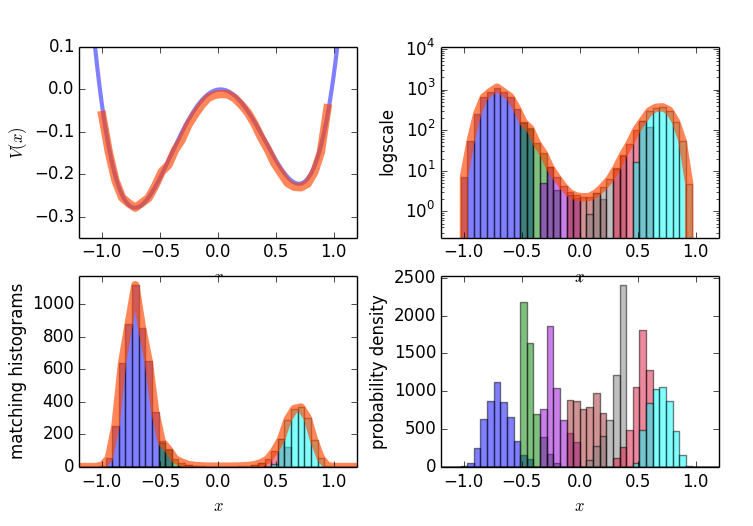
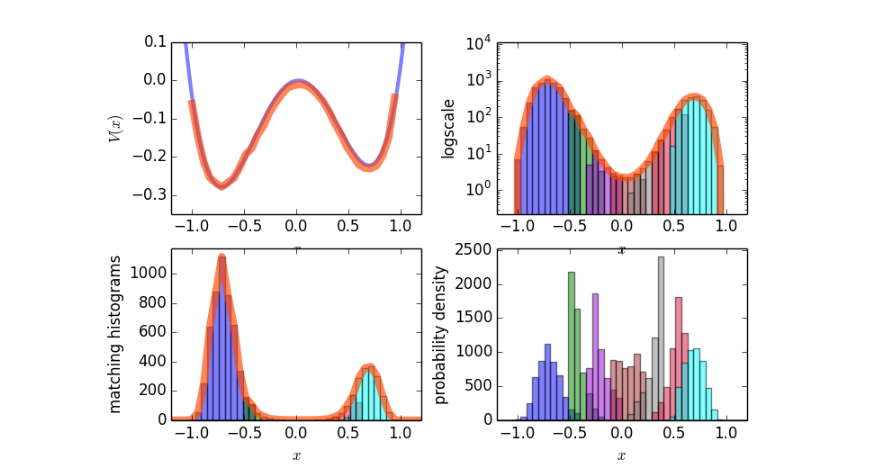
Update to make figures look better on small screens.

Changed region(s): [[0.0, 0.0591, 0.9774, 0.9747], [0.9469, 0.5316, 0.9774, 0.8861], [0.0, 0.2363, 0.0305, 0.2954]]

diff --git a/docs/examples/examples-mc.rst b/docs/examples/examples-mc.rst
@@ -17,10 +17,12 @@ known, potential using umbrella sampling. The results we will obtain are
 shown in the figure below: the potential energy :math:`V(x)`
 and the probability density.
 
-.. image:: ../img/umbrella_sampling.png
-   :scale: 75 %
+.. figure:: ../img/umbrella_sampling.png
+   :class: img-responsive center-block
    :alt: Result from the umbrella sampling
    :align: center
+
+   Sample results for the potential energy and the probability density.
 
 We begin by importing the pyretis library:
 

diff --git a/docs/examples/examples-md.rst b/docs/examples/examples-md.rst
@@ -18,7 +18,7 @@ Our goal is to obtain the pressure of the
 fluid at the given temperature and density.
 
 .. figure:: ../img/nve_md.png
-    :class: img-responsive
+    :class: img-responsive center-block
     :alt: NVE simulation of a LJ fluid
     :align: center
 
